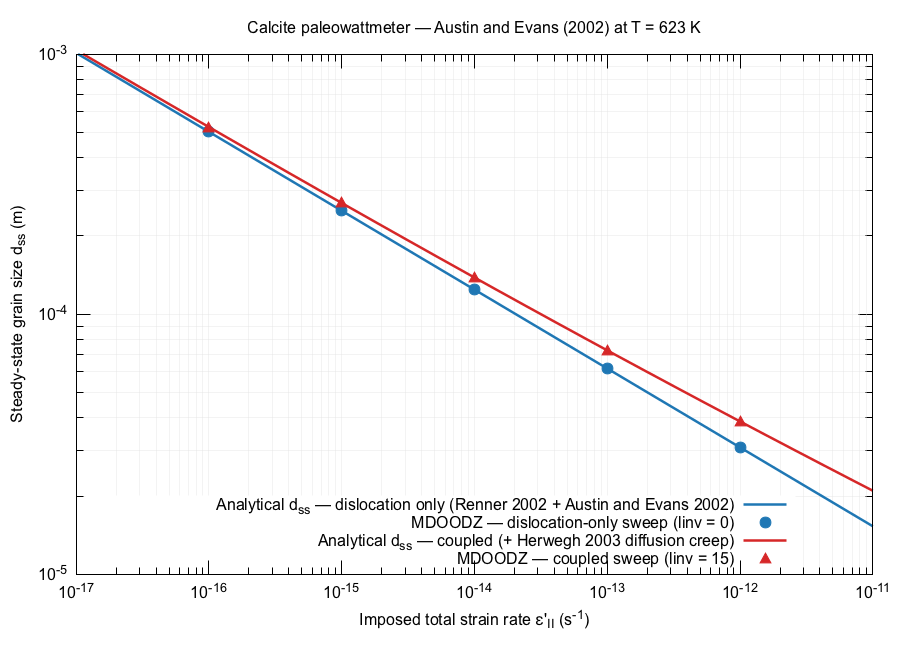
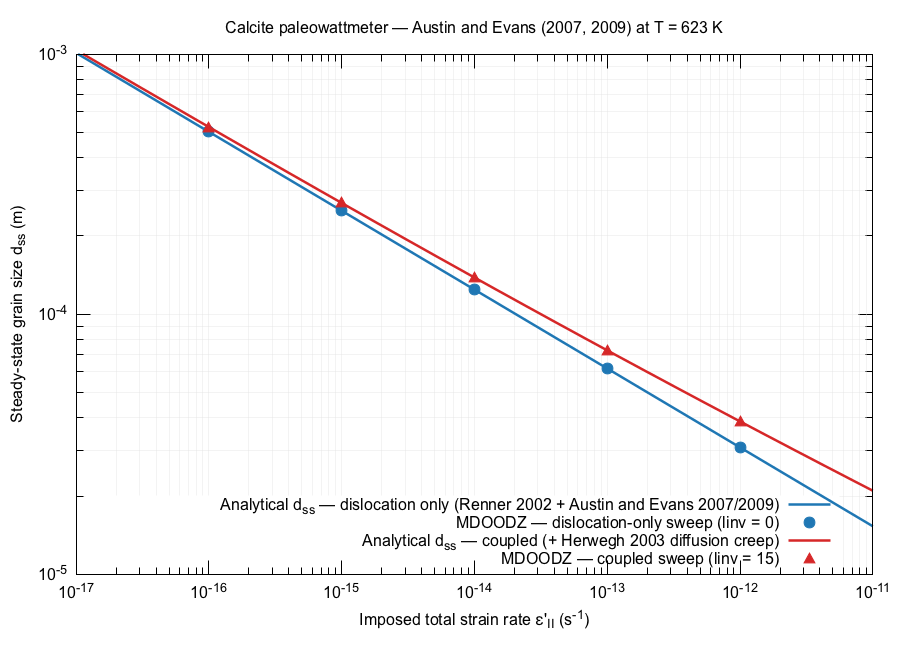
update citations

Changed region(s): [[0.2489, 0.7692, 0.9333, 0.8923], [0.2489, 0.0308, 0.8089, 0.0615]]

diff --git a/TESTS/RheologyCreepTests.cpp b/TESTS/RheologyCreepTests.cpp
@@ -243,7 +243,7 @@ TEST_F(RheologyCreep, PowerLawCreepInterpMode2) {
 
 // --- Grain-size evolution: paleowattmeter steady state ---
 //
-// Homogeneous pure-shear single-phase calcite (pwlv=15 Renner 2002, gs=10 Austin & Evans 2002).
+// Homogeneous pure-shear single-phase calcite (pwlv=15 Renner 2002, gs=10 Austin & Evans 2007/2009).
 // Dislocation creep is the only viscous mechanism, so Eii_pwl = Eii_total. The local
 // Newton iteration must converge to the analytical paleowattmeter steady state:
 //
@@ -253,7 +253,7 @@ TEST_F(RheologyCreep, PowerLawCreepInterpMode2) {
 //   Ag    = Kg * exp(-Qg / (R T))
 //   d_ss  = ( Bg * Eii * Tii * p / Ag )^(-1/(p+1))
 //
-// Reference: Austin & Evans (2002) Geology 30, 1031-1034. See TESTS/AnalyticalSolutions.md §8.
+// Reference: Austin and Evans (2007, 2009) Geology 35(4), 343-346. See TESTS/AnalyticalSolutions.md §8.
 TEST_F(RheologyCreep, GrainSizeSteadyState) {
   const char *testName = testing::UnitTest::GetInstance()->current_test_info()->name();
   char *inputName;
@@ -277,7 +277,7 @@ TEST_F(RheologyCreep, GrainSizeSteadyState) {
   const double B_pwl   = F_pwl * pow(A_pwl, -1.0/n_pwl) * exp(Q_pwl / (n_pwl * R_g * T_K));
   const double tau_II  = 2.0 * B_pwl * pow(Eii, 1.0/n_pwl);
 
-  // Calcite paleowattmeter (Austin & Evans 2002, gs=10) — MDLIB/FlowLaws.c case 10
+  // Calcite paleowattmeter (Austin & Evans 2007/2009, gs=10) — MDLIB/FlowLaws.c case 10
   const double p     = 3.0;
   const double K_g   = 2.5e9 * pow(10.0, -6.0 * p);   // 2.5e-9 m^p/s
   const double Q_g   = 175.0e3;
@@ -376,7 +376,7 @@ TEST_F(RheologyCreep, GrainSizeSweep) {
   setup.MutateInput = mutateSweepInput;
   const char *baseTxt = "RheologyCreep/GrainSizeSteadyState.txt";  // dislocation-only base
 
-  // Constants — same as GrainSizeSteadyState (Renner et al. 2002 + Austin & Evans 2002)
+  // Constants — same as GrainSizeSteadyState (Renner et al. 2002 + Austin & Evans 2007/2009)
   const double T_K   = 350.0 + 273.15;
   const double R_g   = 8.314;
   const double n_pwl = 4.7;
@@ -396,7 +396,7 @@ TEST_F(RheologyCreep, GrainSizeSweep) {
   // Open .dat in write mode — overwrite prior single-point row
   FILE *dat = fopen("grain_size_benchmark.dat", "w");
   ASSERT_NE(dat, nullptr);
-  fprintf(dat, "# Strain-rate sweep — calcite paleowattmeter (Austin & Evans 2002, Renner 2002)\n");
+  fprintf(dat, "# Strain-rate sweep — calcite paleowattmeter (Austin & Evans 2007/2009, Renner 2002)\n");
   fprintf(dat, "# Eii [s^-1]    T [K]         tau_II [Pa]    d_ss_ana [m]   d_mean_mdoodz [m]\n");
 
   for (int i = 0; i < N; ++i) {
@@ -483,7 +483,7 @@ TEST_F(RheologyCreep, GrainSizeSweepCoupled) {
   const double A_lin = 1.7119e-19;
   const double F_lin = (1.0/6.0) * pow(2.0, 1.0/n_lin) * pow(3.0, (n_lin-1.0)/(2.0*n_lin));
   const double B_lin = F_lin * pow(A_lin, -1.0/n_lin) * exp(Q_lin / (n_lin * R_g * T_K));
-  // Austin & Evans 2002 paleowattmeter — gs=10
+  // Austin & Evans 2007/2009 paleowattmeter — gs=10
   const double p     = 3.0;
   const double K_g   = 2.5e9 * pow(10.0, -6.0 * p);
   const double Q_g   = 175.0e3;
@@ -528,7 +528,7 @@ TEST_F(RheologyCreep, GrainSizeSweepCoupled) {
     *out_Eii_lin = el;
   };
 
-  printf("[CoupledSweep] (Calcite Renner 2002 dislocation + Herwegh 2003 diffusion + Austin & Evans 2002 wattmeter)\n");
+  printf("[CoupledSweep] (Calcite Renner 2002 dislocation + Herwegh 2003 diffusion + Austin & Evans 2007/2009 wattmeter)\n");
   printf("[CoupledSweep] %-10s %-12s %-12s %-12s %-12s %-12s\n",
          "Eii", "tau_II[Pa]", "Eii_pwl/Eii", "d_ss_disl", "d_ss_couple", "d_n_mean");
 

diff --git a/TESTS/AnalyticalSolutions.md b/TESTS/AnalyticalSolutions.md
@@ -863,7 +863,7 @@ The L1(P) kink between h=5e-2 and h=2.5e-2 is a known feature of staggered FD at
 **Source:** [RheologyCreepTests.cpp](RheologyCreepTests.cpp)
 **Parameter file:** [RheologyCreep/GrainSizeSteadyState.txt](RheologyCreep/GrainSizeSteadyState.txt) — single base, used directly by `GrainSizeSteadyState` and via per-iteration parameter overrides by `GrainSizeSweep`. Strain rate (`bkg_strain_rate`) and `writer_subfolder` are injected at runtime through MDLIB's `MutateInput` hook ([mdoodz.h:338](../MDLIB/include/mdoodz.h#L338); callback runs in [Main_DOODZ.c:107](../MDLIB/Main_DOODZ.c#L107) after parsing, before init), eliminating the need for separate fixture files per strain rate.
 **Tests:** `RheologyCreep.GrainSizeSteadyState` (single-point regression gate at Eii=10⁻¹⁴) and `RheologyCreep.GrainSizeSweep` (5-point sweep across 4 decades of strain rate, sharing the same base `.txt`).
-**Reference:** Austin & Evans (2002), *Paleowattmeters: A scaling relation for dynamically recrystallized grain size*, Geology 30, 1031–1034. Renner et al. (2002) for the calcite power-law.
+**Reference:** Austin and Evans (2007), *Paleowattmeters: A scaling relation for dynamically recrystallized grain size*, Geology **35**(4), 343–346 (the seminal wattmeter paper); Austin and Evans (2009) for the calcite-specific calibration whose constants S&D 2017 Table 1 lists. The dislocation flow law: MDLIB labels case 15 as "Renner et al. (2002)", but the numerical constants (n=4.7, Q=297 kJ/mol, A=1.585×10⁻²⁵ Pa⁻ⁿ s⁻¹) match what S&D 2017 Table 1 attributes to **Schmid et al. (1977)** — long-standing MDLIB mislabel; Renner+02 in S&D 2017 refers to a separate Peierls flow law not used here.
 
 ### Problem Statement
 
@@ -890,7 +890,7 @@ with $B_g = \lambda/(c_g\,\gamma)$ and $A_g = K_g\,\exp(-Q_g/R_g T)$.
 | $\lambda$ | 0.1 | partition factor |
 | $c_g$     | $\pi$ | geometric constant |
 
-**Calcite power-law (`pwlv = 15`, Renner et al. 2002)** from [MDLIB/FlowLaws.c:570-583](../MDLIB/FlowLaws.c#L570) (axial-compression correction `tpwl = 1`).
+**Calcite dislocation creep (`pwlv = 15`)** from [MDLIB/FlowLaws.c:570-583](../MDLIB/FlowLaws.c#L570) (axial-compression correction `tpwl = 1`). MDLIB's source comment labels case 15 as "Renner et al. (2002)" but the constants (n=4.7, Q=297 kJ/mol, A=1.585×10⁻²⁵ Pa⁻ⁿ s⁻¹) are what Schmalholz & Duretz 2017 Table 1 attributes to **Schmid et al. (1977)**. See note in the Reference section above.
 
 ### Implementation Details
 
@@ -979,7 +979,7 @@ gnuplot ../../TESTS/RheologyCreep/plot_grain_size_paper_view.gp
 # → grain_size_paper_view.png
 ```
 
-![Calcite deformation map at T=350°C — three coupled-creep strain-rate iso-contours, the Renner 2002/Herwegh 2003/Austin & Evans 2002 paleowattmeter line, and 5 MDOODZ measurement points overlaid in the layout of Schmalholz & Duretz 2017 Fig. 2](grain_size_paper_view.png)
+![Calcite deformation map at T=350°C — three coupled-creep strain-rate iso-contours, the Renner 2002/Herwegh 2003/Austin & Evans 2007/2009 paleowattmeter line, and 5 MDOODZ measurement points overlaid in the layout of Schmalholz & Duretz 2017 Fig. 2](grain_size_paper_view.png)
 
 Compare side-by-side with [Fig. 2 of Schmalholz & Duretz (2017)](https://ars.els-cdn.com/content/image/1-s2.0-S019181411730161X-gr2.jpg). MDOODZ's 5 measurements (red triangles) sit precisely on the heavy paleowattmeter line — the same locus the paper uses to compute steady-state grain size. The strain-rate iso-contours mirror the paper's "Renner 2002 & Herwegh 2003" panel: at small grain sizes diffusion creep dominates (steep rising left side), at large grain sizes dislocation creep dominates (flat plateau on the right), with the wattmeter line passing through both regimes.
 